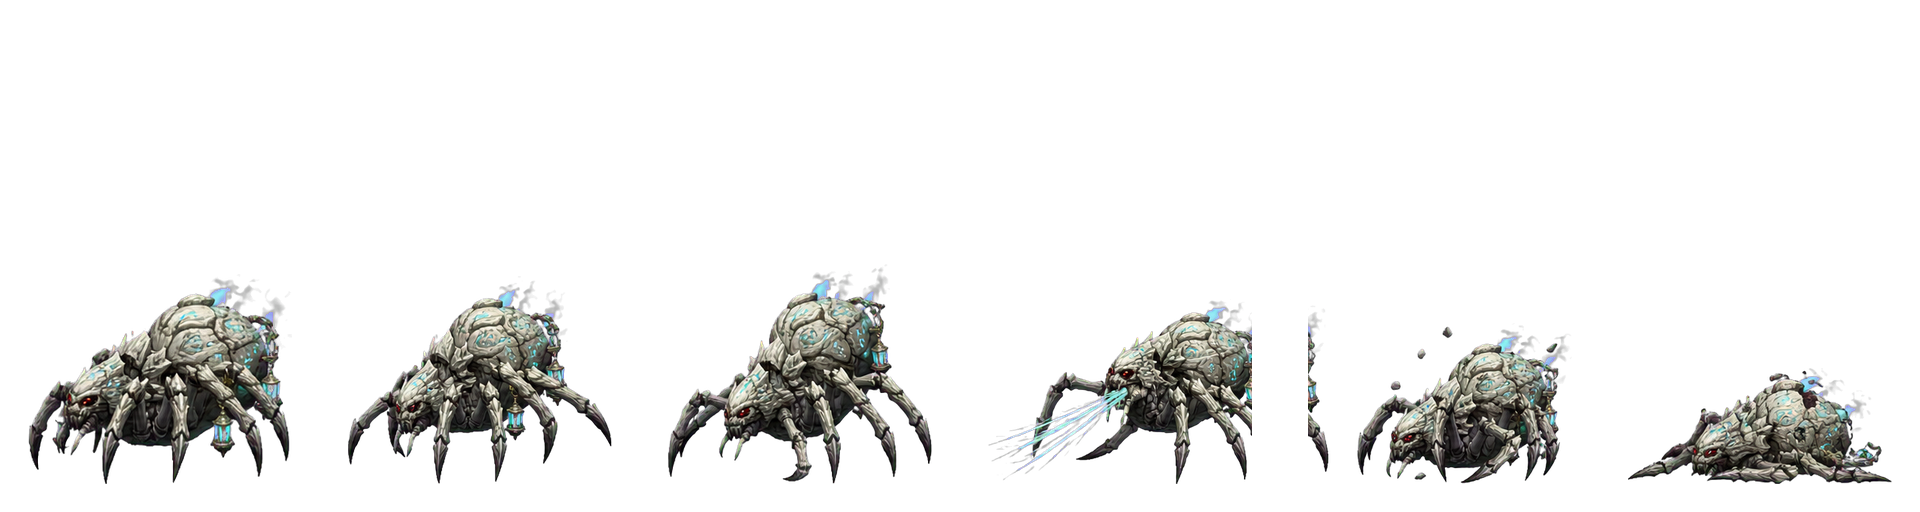
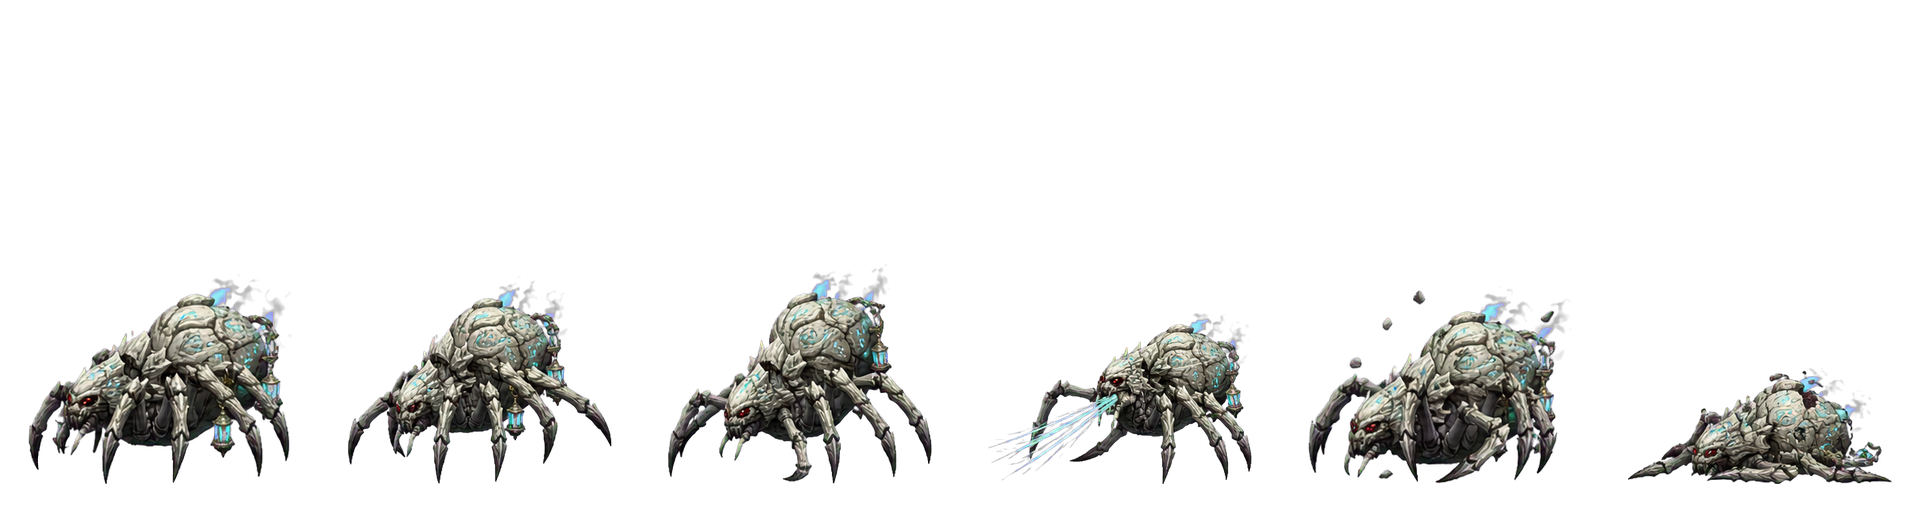
fix: reconstruct crossing stage two frames

Changed region(s): [[0.5, 0.5938, 0.8125, 0.9375], [0.7188, 0.5625, 0.75, 0.5938]]

diff --git a/cocos-client/tools/build-frame-strip.py b/cocos-client/tools/build-frame-strip.py
@@ -48,10 +48,70 @@ def slice_sheet_columns(sheet: Image.Image, columns: int) -> list[Image.Image]:
     return [sheet.crop((index * cell_width, 0, (index + 1) * cell_width, sheet.height)) for index in range(columns)]
 
 
+def content_touches_equal_boundaries(sheet: Image.Image, columns: int, band: int = 2) -> bool:
+    alpha = sheet.convert("RGBA").getchannel("A")
+    cell_width = sheet.width // columns
+    for index in range(1, columns):
+        boundary = index * cell_width
+        if alpha.crop((max(0, boundary - band), 0, min(sheet.width, boundary + band), sheet.height)).getbbox():
+            return True
+    return False
+
+
+def extract_sheet_components(sheet: Image.Image, columns: int) -> tuple[list[Image.Image], bool]:
+    try:
+        import cv2
+        import numpy as np
+    except ImportError as error:
+        raise RuntimeError("--extract-components requires OpenCV and NumPy") from error
+
+    rgba = np.asarray(sheet.convert("RGBA"))
+    mask = (rgba[:, :, 3] > 8).astype("uint8")
+    count, labels, stats, centroids = cv2.connectedComponentsWithStats(mask, 8)
+    components = sorted(range(1, count), key=lambda label: int(stats[label, cv2.CC_STAT_AREA]), reverse=True)
+    if len(components) < columns:
+        raise ValueError(f"Sheet contains only {len(components)} visible components for {columns} columns")
+
+    seeds = sorted(components[:columns], key=lambda label: float(centroids[label][0]))
+    cell_width = sheet.width / columns
+    crosses_boundaries = any(
+        int(stats[label, cv2.CC_STAT_LEFT]) < index * cell_width
+        or int(stats[label, cv2.CC_STAT_LEFT] + stats[label, cv2.CC_STAT_WIDTH]) > (index + 1) * cell_width
+        for index, label in enumerate(seeds)
+    )
+
+    seed_boxes = []
+    for label in seeds:
+        x, y, width, height = (int(value) for value in stats[label, :4])
+        seed_boxes.append((x, y, x + width - 1, y + height - 1))
+
+    def distance_to_box(cx: float, cy: float, box: tuple[int, int, int, int]) -> float:
+        dx = max(box[0] - cx, 0, cx - box[2])
+        dy = max(box[1] - cy, 0, cy - box[3])
+        return dx * dx + dy * dy
+
+    groups = [[] for _ in range(columns)]
+    for label in components:
+        if int(stats[label, cv2.CC_STAT_AREA]) < 4:
+            continue
+        cx, cy = (float(value) for value in centroids[label])
+        owner = min(range(columns), key=lambda index: distance_to_box(cx, cy, seed_boxes[index]))
+        groups[owner].append(label)
+
+    frames = []
+    for group in groups:
+        group_mask = np.isin(labels, group)
+        pixels = np.zeros_like(rgba)
+        pixels[group_mask] = rgba[group_mask]
+        frames.append(Image.fromarray(pixels, "RGBA"))
+    return frames, crosses_boundaries
+
+
 def build_frame_strip(
     input_dir: Path | None,
     input_sheet: Path | None,
     sheet_columns: int,
+    extract_components: bool,
     output: Path,
     frame_size: tuple[int, int],
     limit: int | None,
@@ -65,7 +125,21 @@ def build_frame_strip(
 
     if input_sheet:
         with Image.open(input_sheet) as sheet:
-            source_frames = slice_sheet_columns(sheet.convert("RGBA"), sheet_columns)
+            rgba_sheet = sheet.convert("RGBA")
+            if rgba_sheet.width % sheet_columns != 0:
+                raise ValueError(
+                    f"Sheet width {rgba_sheet.width} is not evenly divisible by {sheet_columns} columns"
+                )
+            if extract_components:
+                source_frames, crossed = extract_sheet_components(rgba_sheet, sheet_columns)
+                if crossed:
+                    print("Detected subject content that crosses equal column boundaries; reconstructed frames by component ownership.")
+            else:
+                if content_touches_equal_boundaries(rgba_sheet, sheet_columns):
+                    raise ValueError(
+                        "Subject content crosses equal column boundaries; rerun with --extract-components"
+                    )
+                source_frames = slice_sheet_columns(rgba_sheet, sheet_columns)
     else:
         sources = sorted(input_dir.glob("*.png")) if input_dir else []
         if limit:
@@ -91,7 +165,8 @@ def main() -> None:
     inputs = parser.add_mutually_exclusive_group(required=True)
     inputs.add_argument("--input-dir", type=Path, help="Directory containing source PNG sequence frames.")
     inputs.add_argument("--input-sheet", type=Path, help="One evenly divided horizontal source sheet.")
-    parser.add_argument("--sheet-columns", type=int, default=1, help="Number of equal columns in --input-sheet.")
+    parser.add_argument("--sheet-columns", type=int, default=None, help="Number of action columns in --input-sheet.")
+    parser.add_argument("--extract-components", action="store_true", help="Reconstruct crossing subjects before packing a sheet.")
     parser.add_argument("--output", required=True, type=Path, help="Output horizontal strip PNG path.")
     parser.add_argument("--frame-width", type=int, default=256)
     parser.add_argument("--frame-height", type=int, default=256)
@@ -100,10 +175,22 @@ def main() -> None:
     parser.add_argument("--limit", type=int, default=None, help="Optional maximum number of frames to pack.")
     args = parser.parse_args()
 
+    if args.input_sheet and args.sheet_columns is None:
+        parser.error("--sheet-columns is required with --input-sheet")
+    if args.input_dir and args.sheet_columns is not None:
+        parser.error("--sheet-columns is only valid with --input-sheet")
+    if args.input_dir and args.extract_components:
+        parser.error("--extract-components is only valid with --input-sheet")
+    if args.input_sheet and args.limit is not None:
+        parser.error("--limit cannot be used with --input-sheet")
+    if args.sheet_columns is not None and args.sheet_columns <= 0:
+        parser.error("--sheet-columns must be greater than zero")
+
     build_frame_strip(
         args.input_dir,
         args.input_sheet,
         args.sheet_columns,
+        args.extract_components,
         args.output,
         (args.frame_width, args.frame_height),
         args.limit,
